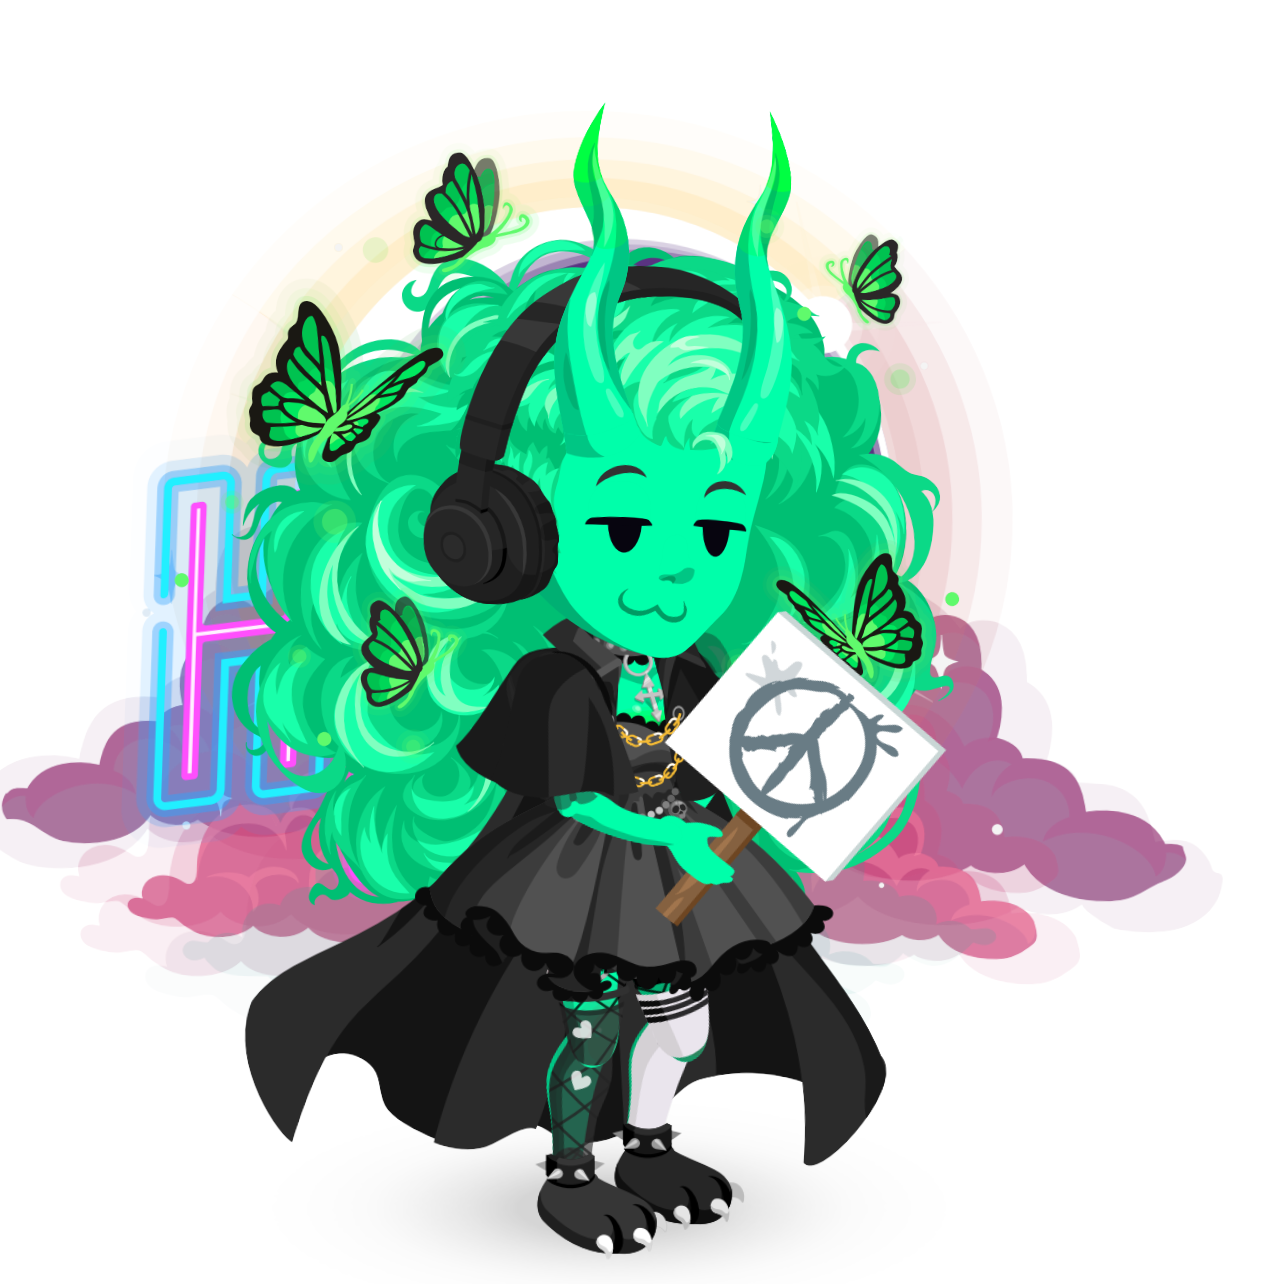
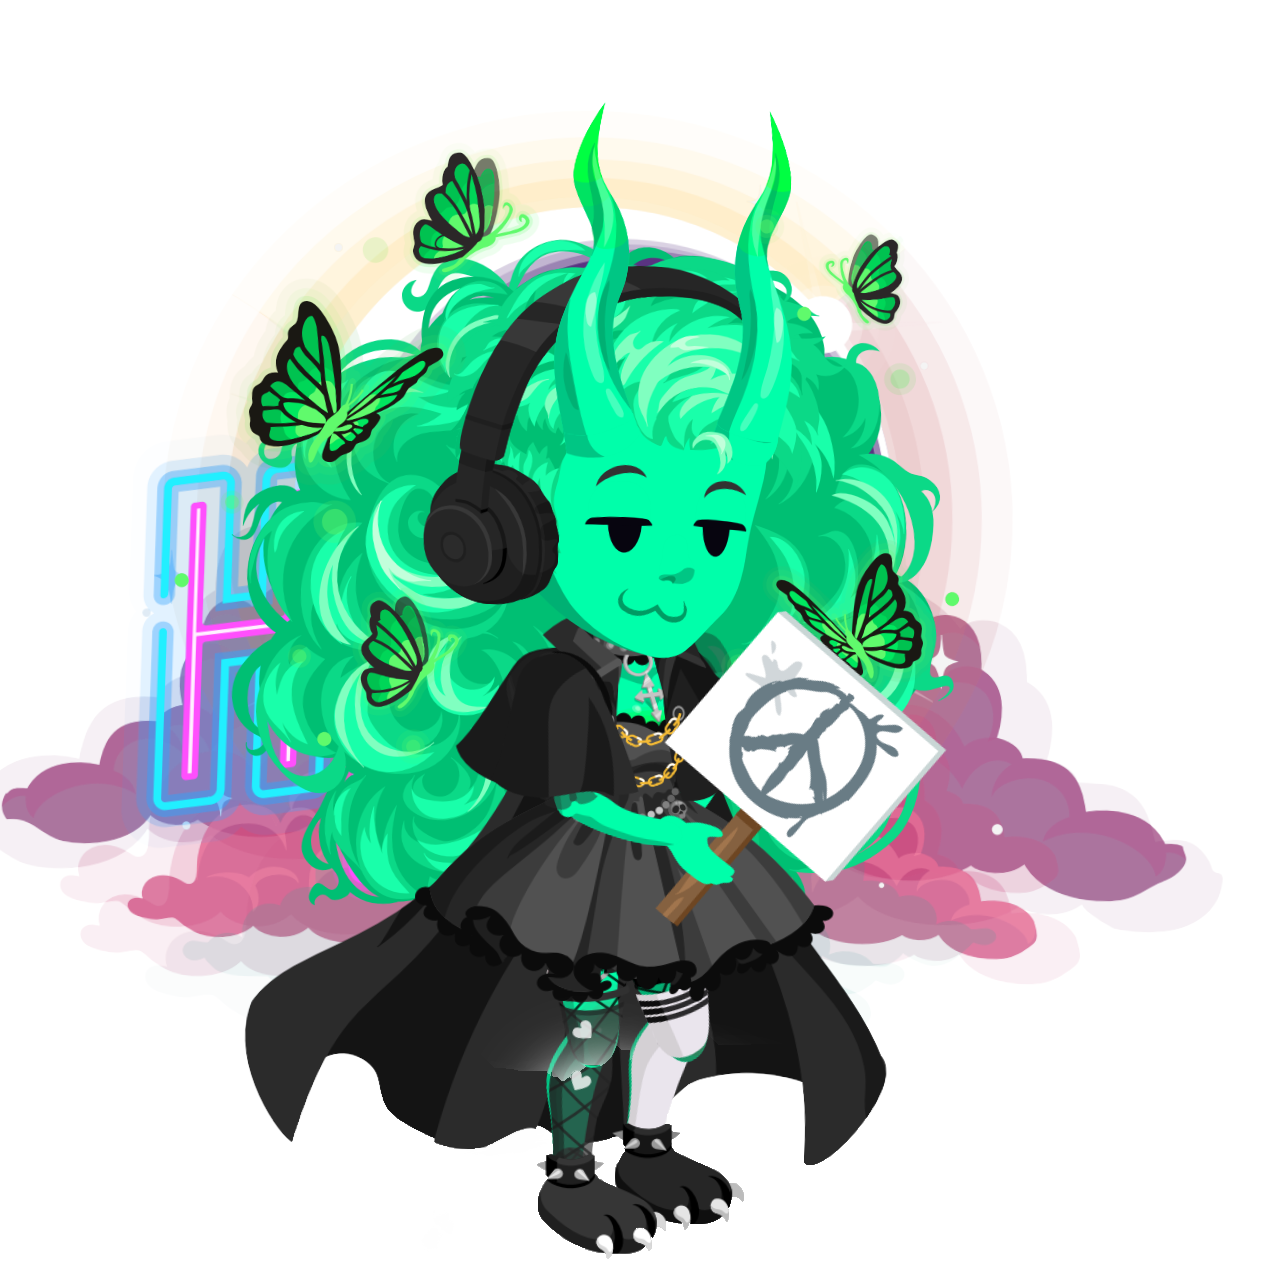
Links on user + removed shadow on mascots

diff --git a/src/pages/Home.tsx b/src/pages/Home.tsx
@@ -117,7 +117,7 @@ const Home: FC = () => {
               fontWeight="400"
               textAlign="center"
               fontFamily="'Ubuntu', sans-serif !important"
-            >Les plus grosses&nbsp;soirées <span className="hidden">du métavers</span> se passent sur <Link className="underline" to="https://highrise.game/fr/feed/HEXOFO" target="_blank">HighRise</Link> avec&nbsp;HEXOFO&nbsp;!</Text>
+            >Les plus grosses&nbsp;soirées <span className="hidden">du métavers</span> se passent sur <Link className="underline cursorAlias" to="https://highrise.game/fr/feed/HEXOFO" target="_blank">HighRise</Link> avec&nbsp;HEXOFO&nbsp;!</Text>
             <Flex justifyContent="center" mt="8" py="6">
               {/* <Flex justifyContent="center" mr="4">
                 <Scroll to="upcoming" smooth={true}>
@@ -145,18 +145,34 @@ const Home: FC = () => {
             <Container>
               <Text as="h3" mb="2" color="white" fontSize="3xl" textAlign="center">L'équipe #HEXOFO</Text>
               <Grid templateColumns={{base:"1", md:'repeat(3, 1fr)'}} gap={4}>
-                <Flex className="user" bg="whiteAlpha.800" color="black" borderRadius="xl" justifyContent="center" p="2">
+                <Flex className="user hoverPop"
+                  bg="whiteAlpha.800"
+                  color="black"
+                  borderRadius="xl"
+                  justifyContent="center"
+                  p="2"
+                  cursor="alias"
+                  onClick={() => window.open("https://highrise.game/fr/profile/AndaLixe", "_blank")}
+                >
                   <Stack>
                     <Flex justifyContent="center">
                       <Image src="./AndaLixe.png" w="200px" alt="AndaLixe" />
                     </Flex>
                     <Stack>
                       <Text textAlign="center" fontSize="2xl">AndaLixe</Text>
-                      <Text textAlign="center" fontSize="sm"><strong>Fondateur</strong> / <strong>Manager</strong> <br/>Lead</Text>
+                      <Text textAlign="center" fontSize="sm"><strong>Fondateur</strong> / <strong>Manager</strong> <br/>Leader</Text>
                     </Stack>
                   </Stack>
                 </Flex>
-                <Flex className="user" bg="whiteAlpha.800" color="black" borderRadius="xl" justifyContent="center" p="2">
+                <Flex className="user hoverPop"
+                  bg="whiteAlpha.800"
+                  color="black"
+                  borderRadius="xl"
+                  justifyContent="center"
+                  p="2"
+                  cursor="alias"
+                  onClick={() => window.open("https://highrise.game/fr/profile/DJ_Camelico", "_blank")}
+                >
                   <Stack>
                     <Flex justifyContent="center">
                       <Image src="./DJ_Camelico.png" w="200px" alt="DJ_Camelico" />
@@ -167,7 +183,15 @@ const Home: FC = () => {
                     </Stack>
                   </Stack>
                 </Flex>
-                <Flex className="user" bg="whiteAlpha.800" color="black" borderRadius="xl" justifyContent="center" p="2">
+                <Flex className="user hoverPop"
+                  bg="whiteAlpha.800"
+                  color="black"
+                  borderRadius="xl"
+                  justifyContent="center"
+                  p="2"
+                  cursor="alias"
+                  onClick={() => window.open("https://highrise.game/fr/profile/DJ_Jeebee", "_blank")}
+                >
                   <Stack>
                     <Flex justifyContent="center">
                       <Image src="./DJ_Jeebee.png" w="200px" alt="DJ_Jeebee" />
@@ -181,19 +205,19 @@ const Home: FC = () => {
               </Grid>
               <Text as="h4" mt="6" mb="2" color="white" fontSize="2xl" textAlign="center">Les chefs de clan</Text>
               <Grid templateColumns={{base:"1", md:'repeat(3, 1fr)'}} gap={4}>
-                <Stack className="user" bg="blackAlpha.600" borderRadius="xl" p="2">
+                <Stack className="user hoverPop" bg="blackAlpha.600" borderRadius="xl" p="2" cursor="alias" onClick={() => window.open("https://highrise.game/fr/profile/Cyeme", "_blank")}>
                   <Stack>
                     <Text textAlign="center" fontSize="2xl">Cyeme</Text>
                     <Text textAlign="center" fontSize="sm" lineHeight="36px">Admin / Organisatrice</Text>
                   </Stack>
                 </Stack>
-                <Stack className="user" bg="blackAlpha.600" borderRadius="xl" p="2">
+                <Stack className="user hoverPop" bg="blackAlpha.600" borderRadius="xl" p="2" cursor="alias" onClick={() => window.open("https://highrise.game/fr/profile/Elf_ie", "_blank")}>
                   <Stack>
                     <Text textAlign="center" fontSize="2xl">Elf_ie</Text>
                     <Text textAlign="center" fontSize="sm" lineHeight="36px">Admin / Modératrice</Text>
                   </Stack>
                 </Stack>
-                <Stack className="user" bg="blackAlpha.600" borderRadius="xl" p="2">
+                <Stack className="user hoverPop" bg="blackAlpha.600" borderRadius="xl" p="2" cursor="alias" onClick={() => window.open("https://highrise.game/fr/profile/D.Chtulhu", "_blank")}>
                   <Stack>
                     <Text textAlign="center" fontSize="2xl">D.Chtulhu</Text>
                     <Text textAlign="center" fontSize="sm" lineHeight="36px">Admin / Senior</Text>
@@ -334,9 +358,9 @@ const Home: FC = () => {
         <Container pb="20">
           <Text as="h3" fontSize="2xl" color="white" textAlign="center" mb="12">Rejoins notre communauté !</Text>
           <Flex mt="4" flexDirection={{base:"column", md:"row"}} justifyContent="space-around">
-            <Button my={{base:"2", md:"0"}} py="6" px="8" borderBottom="4px solid #070" colorScheme="whatsapp" onClick={() => window.open('https://discord.gg/jnJXVAKwnV', "_blank")}>Discord</Button>
-            <Button my={{base:"2", md:"0"}} py="6" px="8" borderBottom="4px solid #070" colorScheme="whatsapp" onClick={() => window.open('https://instagram.com/hexofo', "_blank")}>Instagram</Button>
-            <Button my={{base:"2", md:"0"}} py="6" px="8" borderBottom="4px solid #070" colorScheme="whatsapp" onClick={() => window.open('https://twitter.com/hexofo_', "_blank")}>Twitter</Button>
+            <Button cursor="alias" my={{base:"2", md:"0"}} py="6" px="8" borderBottom="4px solid #070" colorScheme="whatsapp" onClick={() => window.open('https://discord.gg/jnJXVAKwnV', "_blank")}>Discord</Button>
+            <Button cursor="alias" my={{base:"2", md:"0"}} py="6" px="8" borderBottom="4px solid #070" colorScheme="whatsapp" onClick={() => window.open('https://instagram.com/hexofo', "_blank")}>Instagram</Button>
+            <Button cursor="alias" my={{base:"2", md:"0"}} py="6" px="8" borderBottom="4px solid #070" colorScheme="whatsapp" onClick={() => window.open('https://twitter.com/hexofo_', "_blank")}>Twitter</Button>
           </Flex>
         </Container>
         <Flex justifyContent="center" p="4">

diff --git a/src/styles/index.scss b/src/styles/index.scss
@@ -38,6 +38,13 @@ a.underline { text-decoration: underline !important; }
   background: transparent !important;
 }
 
+.hoverpop, .hoverPop {
+  transition: all .5 ease;
+  &:hover { transform: scale(1.05); }
+}
+
+.cursoralias, .cursorAlias { cursor: alias !important; }
+
 @media screen and (max-width:800px) {
   .noMobile, .nomobile, .no-mobile { display: none !important; }
   .mobileOnly, .mobileonly, .mobile-only { display: initial !important; }
